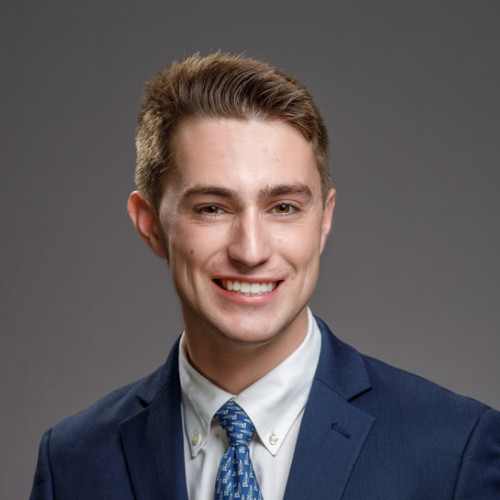
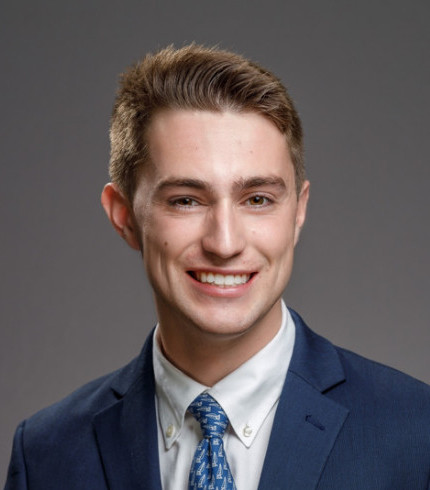
updated who we are

Changed region(s): [[0.2116, 0.0918, 1.0, 1.0], [0.0, 0.6735, 0.393, 1.0], [0.907, 0.8878, 0.9372, 0.9184]]

diff --git a/WhoWeAre.html b/WhoWeAre.html
@@ -29,12 +29,44 @@
 </div>
 <div class="mdl-grid">
     <div class="mdl-cell mdl-cell--6-col">
-        <h3>president</h3>
+        <div class="leadership">
+            <img src="resources/headshots/DaneWilliams.jpeg" style="padding-right: 10px; float: left;" alt="DaneWilliams.jpeg" height="285" width="250">
+            <h3>Dane Williams</h3>
+            <h4>Co-Founder and President</h4>
+            <p>
+                Dane co-founded CodeSeed in April of 2019 with the goal of bringing more software development opportunities to Notre Dame students.
+                Dane spent the summer of 2019 helping lead CodeSeed while also interning at Symetra in Bellevue, WA where he worked on cloud infrastructure and development. 
+                He grew up in Seattle's Eastside and now resides in the Bay Area, California when away from Notre Dame. 
+            </p>
+            <a href="https://linkedin.com/in/danerwilliams" target="_blank"><button class="mdl-button mdl-js-button">
+                <img src="resources/linkedin-logo.png" height="35" width="140">
+            </button></a>
+            <a href="https://github.com/danerwilliams" target="_blank"><button class="mdl-button mdl-js-button">
+                <img src="resources/github-logo.png" height="40" width="140">
+            </button></a>
+        </div>
     </div>
     <div class="mdl-cell mdl-cell--6-col">
-        <h3>ceo</h3>
+        <div class="leadership">
+            <img src="resources/headshots/BillyPorter.jpeg" style="padding-right: 10px; float: left;" alt="BillyPorter.jpeg" height="285" width="250">
+            <h3>Billy Porter</h3>
+            <h4>Co-Founder and CEO</h4>
+            <p>
+                Lorem ipsum dolor sit amet, consectetur adipiscing elit, sed do eiusmod tempor incididunt ut labore et dolore magna aliqua. Ut enim ad minim veniam, 
+                quis nostrud exercitation ullamco laboris nisi ut aliquip ex ea commodo consequat. Duis aute irure dolor in reprehenderit in voluptate velit esse cillum dolore eu fugiat nulla pariatur. 
+                Excepteur sint occaecat cupidatat non proident excepteur sint occaecat cupidatat non proident
+            </p>
+            <a href="https://linkedin.com/in/billyporter5347/" target="_blank"><button class="mdl-button mdl-js-button">
+                <img src="resources/linkedin-logo.png" height="35" width="140">
+            </button></a>
+            <a href="https://github.com/billyporter" target="_blank"><button class="mdl-button mdl-js-button">
+                <img src="resources/github-logo.png" height="40" width="140">
+            </button></a>
+        </div>
     </div>
 </div>
+
+<div class="our-team-container">
 <div class="mdl-grid">
     <div class="mdl-cell mdl-cell--12-col">
         <h2>our team</h2>
@@ -196,5 +228,20 @@
                         </a>
                     </div>
                 </div>
+    </div>
+</div>
+</div>
+
+<div class="mdl-grid">
+    <div class="mdl-cell mdl-cell--12-col">
+        <h2>work with us</h2>
+    </div>
+</div>
+<div class="mdl-grid">
+    <div class="mdl-cell mdl-cell--6-col">
+        <h3>Students</h2>
+    </div>
+    <div class="mdl-cell mdl-cell--6-col">
+        <h3>Companies</h2>
     </div>
 </div>

diff --git a/style.css b/style.css
@@ -3,6 +3,31 @@
     z-index: 100;
 }
 
+
+
+
+/*leadership styling*/
+.leadership{
+    margin-top: -35px;
+}
+.leadership h3{
+    color: #606060;
+}
+.leadership h4{
+    color: darkgrey;
+    font-size: 22px;
+    margin-top: -25px;
+}
+.leadership p{
+    color: #606060;
+    margin-top:-5px;
+    font-size:18px;
+}
+
+
+
+
+
 /*Square card*/
 .demo-card-square.mdl-card {
   width: 220px;
@@ -28,7 +53,7 @@
     background-repeat: no-repeat;
     height:240px;
     width: 220px;
-    opacity: 0.8;
+    opacity: 0.85;
     margin: -16px;
     transition: 0.3s;
 }
@@ -42,7 +67,14 @@
 .card-name{
     font-size: 24px;
 }
-/*Custom Images for team cards*/
+
+
+
+
+/*Custom Images for team cards + container styling*/
+.our-team-container{
+    background: whitesmoke;
+}
 .demo-card-square.VinceSipocz > .mdl-card__title {
     color: #fff;
     background: url('resources/headshots/VinceSipocz.jpeg') center no-repeat;
@@ -117,6 +149,8 @@
 }
 
 
+
+
 /*grid alignment and styling*/
 .mdl-grid{
     margin-left: 165px;
@@ -130,6 +164,11 @@
 .mdl-grid h3{
     color: #606060;
 }
+p{
+    color: #606060;
+    font-size:18px;
+}
+
 
 
 /*navbar styling and placement*/
@@ -142,6 +181,7 @@
 .nav li a{
     font-size: 20px;
 }
+
 
 
 
@@ -163,6 +203,7 @@
 .nav span a:hover .Color{
     display: inline;
 }
+
 
 
 
@@ -206,6 +247,7 @@
     border: none;
     transition: .3s ease-in-out;
   }
+
 
 
 

diff --git a/index.html b/index.html
@@ -32,7 +32,7 @@
 
 
 </head>
-
+<header>
 <!--MDL Transparent Navbar-->
 <div class="nav mdl-layout mdl-js-layout">
   <header class="mdl-layout__header mdl-layout__header--transparent">
@@ -57,6 +57,7 @@
     </div>
   </header>
 </div>
+</header>
 
 <!--Partial HTML Page Content-->
 <div ng-view=""></div>
@@ -73,10 +74,10 @@
       <div class="mdl-cell mdl-cell--2-col">
           <h1>GENERAL</h1>
           <ul>
-            <li><a href="#/WhatWeDo">Projects</a></li>
-            <li><a href="#/WhoWeAre">Team</a></li>
-            <li><a href="#/HowWeThink">Values</a></li>
-            <li><a href="#/LetsTalk">Contact</a></li>
+            <li><a href="#/WhatWeDo">What We Do</a></li>
+            <li><a href="#/WhoWeAre">Who We Are</a></li>
+            <li><a href="#/HowWeThink">How We Think</a></li>
+            <li><a href="#/LetsTalk">Let's Talk</a></li>
           </ul>
       </div>
       <div class="mdl-cell mdl-cell--2-col">
